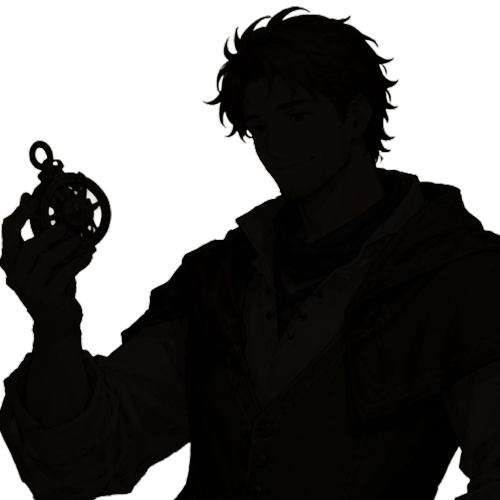
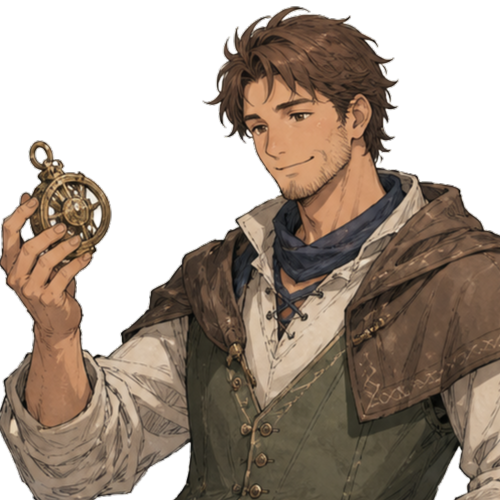
ダリウスを公開

diff --git a/index.html b/index.html
@@ -86,6 +86,11 @@
         </div>
         <div class="home-news__list">
           <article class="home-news__item">
+            <time datetime="2026-09-04">2026.09.04</time>
+            <span class="home-news__tag">追加</span>
+            <a href="people/entries/darius-haldan.html">ダリウス・ハルダンを公開しました。</a>
+          </article>
+          <article class="home-news__item">
             <time datetime="2026-09-02">2026.09.02</time>
             <span class="home-news__tag">追加</span>
             <a href="novels/episode-05.html">小説に「第五話 畏怖」を追加しました。</a>

diff --git a/en/index.html b/en/index.html
@@ -86,6 +86,11 @@
         </div>
         <div class="home-news__list">
           <article class="home-news__item">
+            <time datetime="2026-09-04">2026.09.04</time>
+            <span class="home-news__tag">Added</span>
+            <a href="people/entries/darius-haldan.html">Darius Haldan has been added to People.</a>
+          </article>
+          <article class="home-news__item">
             <time datetime="2026-09-02">2026.09.02</time>
             <span class="home-news__tag">Added</span>
             <a href="novels/episode-05.html">Episode Five, “Awe,” has been added to Novels.</a>

diff --git a/js/navigation.js b/js/navigation.js
@@ -40,6 +40,7 @@
     "people/entries/tora-harland.html",
     "people/entries/milica-lioncourt.html",
     "people/entries/barks-harland.html",
+    "people/entries/darius-haldan.html",
     "people/entries/rokel-kolpor.html",
     "people/entries/marta-brown.html",
     "people/entries/pedra.html",

diff --git a/js/people-data.js b/js/people-data.js
@@ -237,7 +237,6 @@
       specialty: "値段交渉・身体強化・鑑定",
       appearanceOrder: 19,
       image: "../assets/people/portrait-darius-haldan.png",
-      pending: true,
       detailUrl: "entries/darius-haldan.html"
     },
     {
